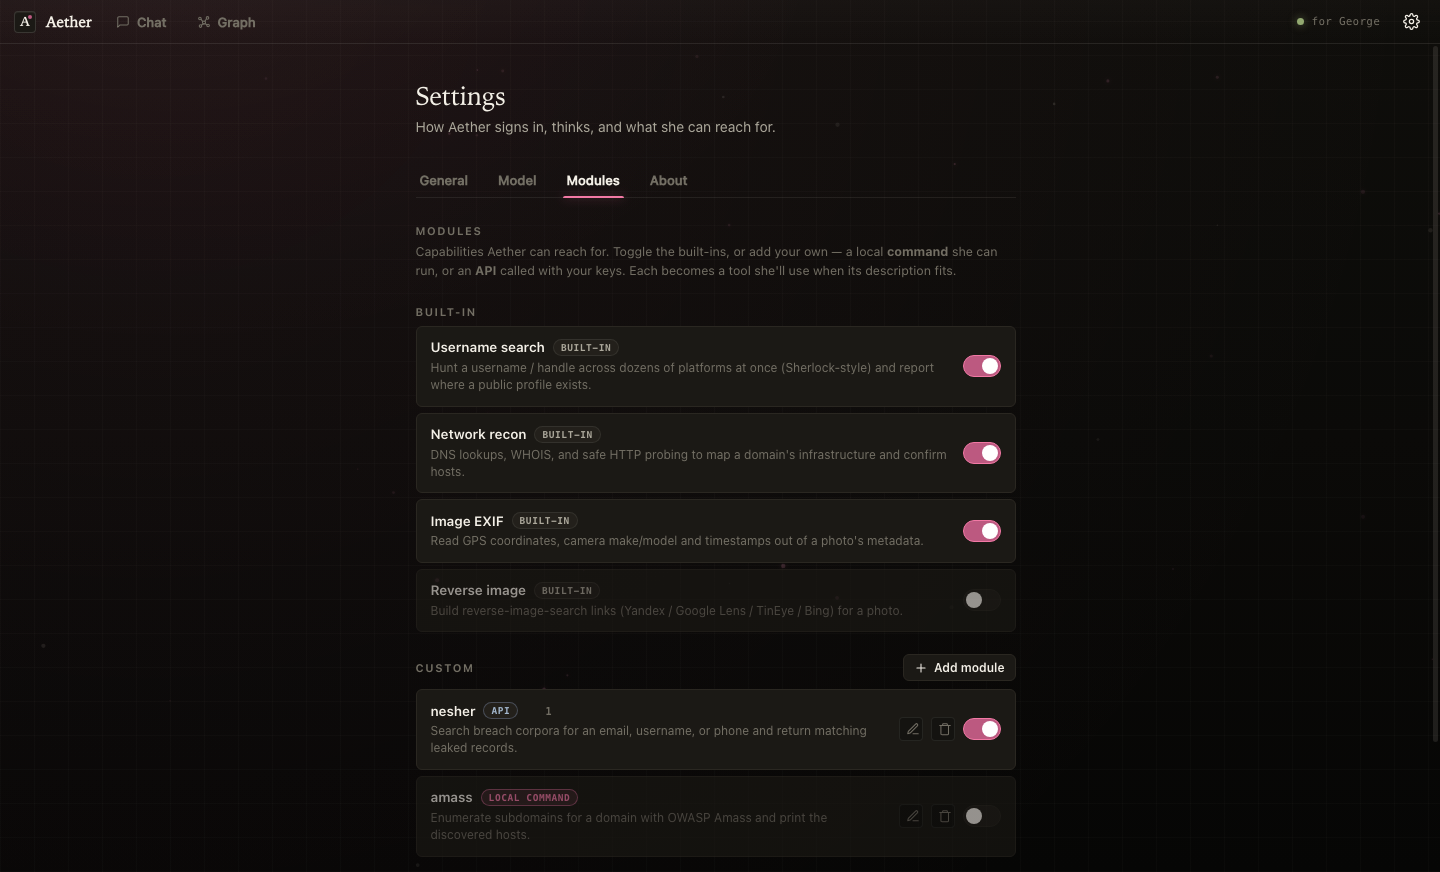
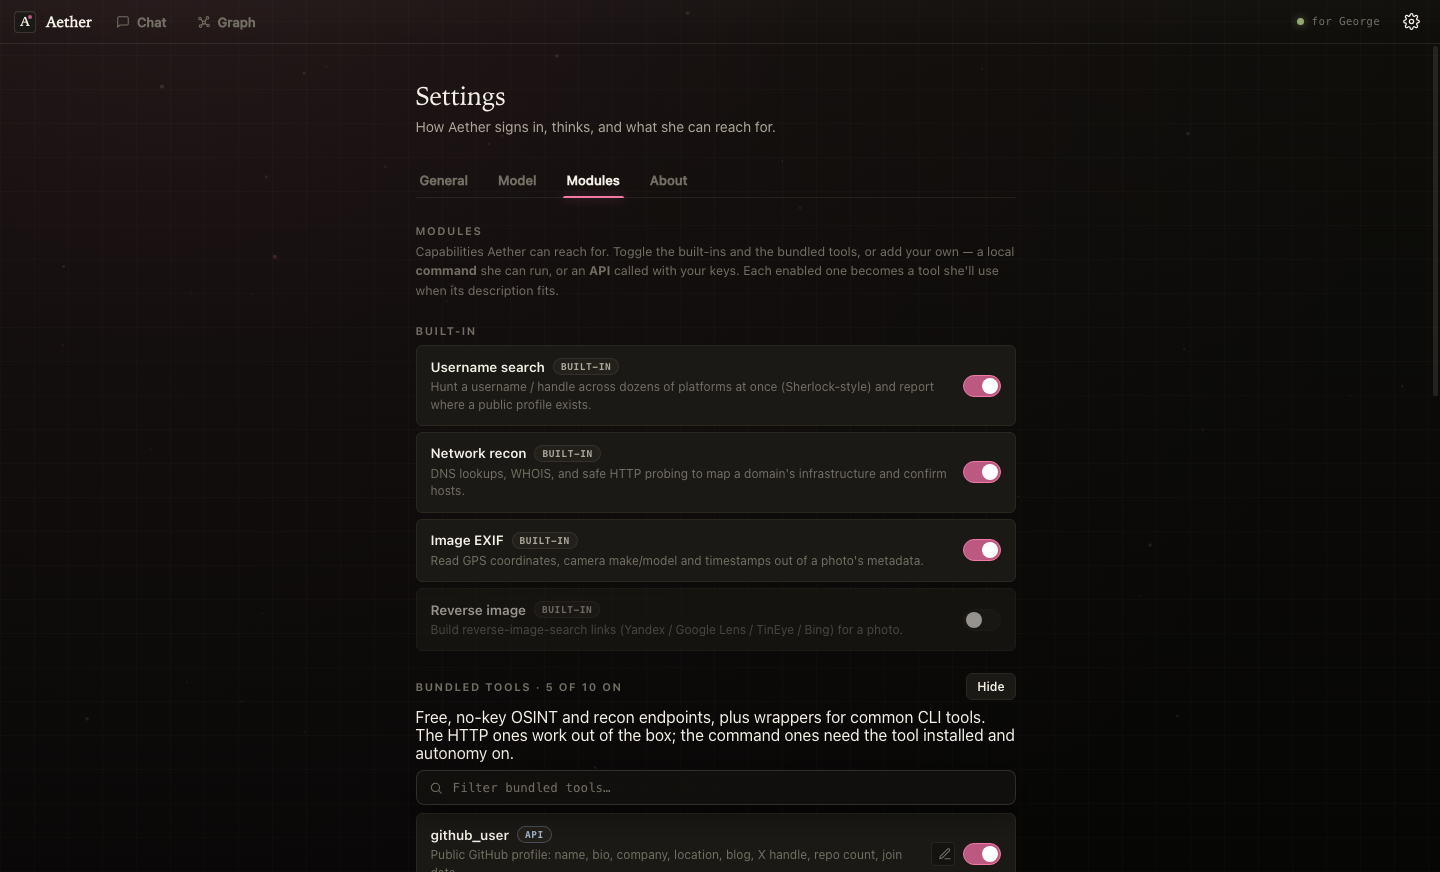
Add a bundled catalog of default modules
Ships ~40 no-key OSINT/recon HTTP endpoints (GitHub, crt.sh, RDAP, Google and
Cloudflare DoH, Shodan InternetDB, ip-api, RIPE, Wayback, urlscan, OTX, Hudson
Rock, npm/PyPI/crates, and more) plus ~24 wrappers for common recon CLIs
(maigret, holehe, subfinder, httpx, tlsx, nuclei, nmap and friends). A
high-signal HTTP core starts enabled; the rest are one toggle away, and the
command wrappers stay off until the binary is installed and autonomy is on.

New "Bundled" group in Settings: filterable, collapsible, editable and
toggleable but not deletable. HTTP endpoints were live-tested through the app's
own fetch path, and modules now send a polite default User-Agent.

diff --git a/src/main/modules.ts b/src/main/modules.ts
@@ -39,7 +39,93 @@ const seedBuiltin = (b: (typeof BUILTINS)[number]): StoredModule => ({
   kind: "builtin", enabled: true, builtin: true, builtinKey: b.key,
 });
 
-function seed(): StoredModule[] { return BUILTINS.map(seedBuiltin); }
+// ── bundled default modules ───────────────────────────────────────────────────
+// A curated catalog that ships with the app. The no-key HTTP ones were live-tested;
+// a high-signal core starts enabled, the rest are available to flip on. Command
+// modules ship disabled — they need the binary installed and autonomy on.
+const H = (id: string, name: string, description: string, url: string, inputLabel: string, on = false, headers?: ModuleHeader[]): StoredModule =>
+  ({ id: "def:" + id, name, description, kind: "http", enabled: on, builtin: false, default: true, method: "GET", url, inputLabel, ...(headers ? { headers } : {}) });
+const C = (id: string, name: string, description: string, command: string, inputLabel: string): StoredModule =>
+  ({ id: "def:" + id, name, description, kind: "command", enabled: false, builtin: false, default: true, command, inputLabel });
+
+const DEFAULT_MODULES: StoredModule[] = [
+  // people / identity (no key)
+  H("github-user", "github_user", "Public GitHub profile: name, bio, company, location, blog, X handle, repo count, join date.", "https://api.github.com/users/{input}", "a GitHub username", true),
+  H("github-repos", "github_repos", "List a GitHub user's public repositories, most-recently-updated first.", "https://api.github.com/users/{input}/repos?per_page=100&sort=updated", "a GitHub username"),
+  H("github-search-user", "github_search_user", "Search public GitHub users by name or handle.", "https://api.github.com/search/users?q={input}", "a name or username"),
+  H("gitlab-user", "gitlab_user", "Look up a public GitLab.com user by username.", "https://gitlab.com/api/v4/users?username={input}", "a GitLab username"),
+  H("keybase", "keybase", "Keybase public identity: linked twitter/github/reddit/domain proofs and PGP keys.", "https://keybase.io/_/api/1.0/user/lookup.json?usernames={input}", "a Keybase username", true),
+  H("hn-user", "hn_user", "Hacker News public user: karma, about text, join date.", "https://hacker-news.firebaseio.com/v0/user/{input}.json", "an HN username"),
+  H("stackoverflow-user", "stackoverflow_user", "Search public Stack Overflow users by display name.", "https://api.stackexchange.com/2.3/users?inname={input}&site=stackoverflow&order=desc&sort=reputation", "a display name"),
+  H("devto-user", "devto_user", "Public dev.to profile by username.", "https://dev.to/api/users/by_username?url={input}", "a dev.to username"),
+  H("wikidata", "wikidata_person", "Search Wikidata for a person or organization. Returns QIDs and descriptions.", "https://www.wikidata.org/w/api.php?action=wbsearchentities&search={input}&language=en&format=json&type=item", "a person or organization name"),
+  H("wikipedia", "wikipedia_search", "Search English Wikipedia for a person, company, or topic.", "https://en.wikipedia.org/w/api.php?action=query&list=search&srsearch={input}&format=json", "a name or topic", true),
+  H("nominatim", "nominatim", "OpenStreetMap geocode of a place, address, or named location (public geo only).", "https://nominatim.openstreetmap.org/search?q={input}&format=json&limit=5", "a place name or address"),
+  H("hudson-email", "hudsonrock_email", "Hudson Rock free OSINT check: is this email seen in infostealer logs.", "https://cavalier.hudsonrock.com/api/json/v2/osint-tools/search-by-email?email={input}", "an email address", true),
+  H("hudson-user", "hudsonrock_username", "Hudson Rock free OSINT check: is this username seen in infostealer logs.", "https://cavalier.hudsonrock.com/api/json/v2/osint-tools/search-by-username?username={input}", "a username"),
+  // domain / dns / ip / certs (no key)
+  H("crtsh", "crtsh", "Certificate Transparency via crt.sh: issued certs and SANs, including historical subdomains.", "https://crt.sh/?q={input}&output=json", "a domain", true),
+  H("anubisdb", "anubisdb", "AnubisDB stored subdomain list for a root domain.", "https://anubisdb.com/subdomains/{input}", "a domain"),
+  H("rdap-domain", "rdap_domain", "RDAP registration data for a domain (the modern, structured WHOIS).", "https://rdap.org/domain/{input}", "a domain", true),
+  H("rdap-ip", "rdap_ip", "RDAP registration data for an IPv4 or IPv6 address.", "https://rdap.org/ip/{input}", "an IP address"),
+  H("doh-a", "doh_a", "Google DNS-over-HTTPS A-record lookup for a hostname.", "https://dns.google/resolve?name={input}&type=A", "a hostname"),
+  H("doh-mx", "doh_mx", "Google DoH MX records: the mail provider behind a domain.", "https://dns.google/resolve?name={input}&type=MX", "a domain", true),
+  H("doh-txt", "doh_txt", "Google DoH TXT records: SPF, DKIM selectors, verification tokens, product hints.", "https://dns.google/resolve?name={input}&type=TXT", "a hostname", true),
+  H("doh-ns", "doh_ns", "Google DoH NS records for a domain.", "https://dns.google/resolve?name={input}&type=NS", "a domain"),
+  H("cloudflare-doh", "cloudflare_doh", "Cloudflare DNS-over-HTTPS A lookup (a second resolver to compare with Google).", "https://cloudflare-dns.com/dns-query?name={input}&type=A", "a hostname", false, [{ name: "Accept", value: "application/dns-json" }]),
+  H("internetdb", "shodan_internetdb", "Shodan InternetDB (no key): open ports, hostnames, CPEs, tags and known CVEs for an IP. Input must be an IP, not a domain.", "https://internetdb.shodan.io/{input}", "an IPv4 address", true),
+  H("ip-api", "ip_api", "ip-api.com geo, ISP, ASN, org and reverse DNS for an IP.", "http://ip-api.com/json/{input}?fields=status,message,country,regionName,city,lat,lon,isp,org,as,asname,reverse,proxy,hosting,query", "an IP address", true),
+  H("ipwhois", "ipwhois", "ipwho.is geo and connection info for an IP.", "https://ipwho.is/{input}", "an IP address"),
+  H("ripe-whois", "ripe_whois", "RIPE Stat whois-style JSON for an IP, prefix, or ASN.", "https://stat.ripe.net/data/whois/data.json?resource={input}", "an IP, prefix, or ASN"),
+  H("ripe-prefix", "ripe_prefix", "RIPE Stat prefix overview and announcing ASNs for an IP or prefix.", "https://stat.ripe.net/data/prefix-overview/data.json?resource={input}", "an IP or prefix"),
+  H("ht-reverse-ip", "ht_reverse_ip", "HackerTarget reverse IP: other hostnames sharing an IP (a shared-hosting pivot). Free daily cap.", "https://api.hackertarget.com/reverseiplookup/?q={input}", "an IP address"),
+  H("ht-hostsearch", "ht_hostsearch", "HackerTarget hostsearch: domain to hostname/IP pairs, a passive subdomain source. Free daily cap.", "https://api.hackertarget.com/hostsearch/?q={input}", "a domain"),
+  H("ht-aslookup", "ht_aslookup", "HackerTarget ASN lookup for an IP.", "https://api.hackertarget.com/aslookup/?q={input}", "an IP address"),
+  // archive / surface / threat (no key)
+  H("wayback", "wayback_available", "Internet Archive: is a URL snapshotted, and the closest snapshot.", "https://archive.org/wayback/available?url={input}", "a URL or domain", true),
+  H("urlscan", "urlscan_search", "urlscan.io public search for past scans of a domain (search only, no submit).", "https://urlscan.io/api/v1/search/?q=domain:{input}", "a domain", true),
+  H("otx-domain", "otx_domain", "AlienVault OTX public indicators for a domain: passive DNS, malware, whois, URLs.", "https://otx.alienvault.com/api/v1/indicators/domain/{input}/general", "a domain", true),
+  H("otx-ip", "otx_ip", "AlienVault OTX public indicators for an IPv4 address.", "https://otx.alienvault.com/api/v1/indicators/IPv4/{input}/general", "an IPv4 address"),
+  // code / package indexes (no key)
+  H("npm", "npm_pkg", "npm registry metadata for a package: maintainers, repo, homepage.", "https://registry.npmjs.org/{input}", "an npm package name"),
+  H("pypi", "pypi_pkg", "PyPI JSON for a package: author, author email, home page, project URLs.", "https://pypi.org/pypi/{input}/json", "a PyPI package name"),
+  H("crates", "crates_pkg", "crates.io metadata and repository for a Rust crate.", "https://crates.io/api/v1/crates/{input}", "a crate name"),
+  H("github-search-repos", "github_search_repos", "Search public GitHub repositories (unauthenticated, low rate limit).", "https://api.github.com/search/repositories?q={input}", "a search query"),
+  // command modules (install the binary; run under autonomy). People footprint:
+  C("maigret", "maigret", "Maigret username enumeration across sites. Returns sites with public accounts and their URLs.", "maigret {input} --timeout 8 --no-progressbar -J simple", "a username"),
+  C("holehe", "holehe", "Holehe: which sites report an email address as registered.", "holehe {input} --no-color --no-clear", "an email address"),
+  C("socialscan", "socialscan", "socialscan email/username availability across platforms.", "socialscan {input}", "an email or username"),
+  C("phoneinfoga", "phoneinfoga_recon", "PhoneInfoga public-source recon for an international number you're authorized to check.", "phoneinfoga scan -n {input}", "an E.164 phone number"),
+  // Website recon / authorized-scan wrappers:
+  C("whatweb", "whatweb", "WhatWeb fingerprint: CMS, frameworks, headers, plugins on an authorized URL.", "whatweb --color=never --no-errors -a 3 {input}", "a URL you are authorized to test"),
+  C("wafw00f", "wafw00f", "Detect the WAF vendor in front of an authorized URL.", "wafw00f {input}", "a URL you are authorized to test"),
+  C("httpx", "httpx", "httpx probe: scheme, status, title, tech, server and length for a host/URL in scope.", "httpx -u {input} -silent -status-code -title -tech-detect -web-server -content-length -follow-redirects", "a host or URL in scope"),
+  C("tlsx", "tlsx", "tlsx certificate and TLS parameter grab for an authorized host.", "tlsx -u {input} -san -cn -so -expired -self-signed -untrusted -silent", "a hostname"),
+  C("sslscan", "sslscan", "sslscan supported ciphers and cert info for an authorized host.", "sslscan --no-colour {input}", "a hostname"),
+  C("subfinder", "subfinder", "subfinder passive subdomain enumeration (works with zero keys, fewer sources).", "subfinder -d {input} -silent", "a domain"),
+  C("amass-passive", "amass_passive", "OWASP Amass passive enumeration only (no active brute force).", "amass enum -passive -d {input} -nocolor", "a domain"),
+  C("assetfinder", "assetfinder", "assetfinder related domains and subdomains from public sources.", "assetfinder --subs-only {input}", "a domain"),
+  C("waybackurls", "waybackurls", "Pull archived URLs for a domain from the Wayback Machine.", "waybackurls {input}", "a domain"),
+  C("gau", "gau", "gau: archived URLs from Wayback, Common Crawl, OTX and urlscan for a domain.", "gau --subs {input}", "a domain"),
+  C("katana", "katana", "katana crawl of an in-scope URL (depth 2), collecting links and JS.", "katana -u {input} -d 2 -silent -jc", "an in-scope URL"),
+  C("nuclei", "nuclei_exposures", "nuclei exposure/misconfig/tech/ssl/dns templates against an authorized target. No exploit templates.", "nuclei -u {input} -tags exposure,misconfig,tech,ssl,dns -silent", "an in-scope URL or host"),
+  C("nikto", "nikto", "Nikto web-server misconfiguration scan of an authorized URL.", "nikto -h {input} -ask no -Display P", "an in-scope URL"),
+  C("wpscan", "wpscan_enum", "WPScan non-destructive enumeration of an authorized WordPress site (no password attack).", "wpscan --url {input} --enumerate vp,vt,u --no-banner --format json", "an in-scope WordPress URL"),
+  C("dnsx", "dnsx", "dnsx A/AAAA/CNAME/MX/NS/TXT resolution for a hostname.", "dnsx -a -aaaa -cname -mx -ns -txt -resp -silent -n {input}", "a hostname"),
+  C("cdncheck", "cdncheck", "cdncheck: whether a host or IP sits on a known CDN/WAF range.", "cdncheck -i {input} -resp -silent", "a host or IP"),
+  C("naabu", "naabu", "naabu connect-scan of the top 1000 ports on an in-scope host.", "naabu -host {input} -top-ports 1000 -silent", "an in-scope host or IP"),
+  C("nmap", "nmap_safe", "nmap version + default-safe scripts against a host you own or are permitted to scan.", "nmap -sV -sC -T4 --top-ports 1000 {input}", "an in-scope host or IP"),
+];
+
+function seed(): StoredModule[] { return [...BUILTINS.map(seedBuiltin), ...DEFAULT_MODULES]; }
+
+/** Add any bundled default missing from the stored set (so existing installs
+ *  pick up new defaults), without touching the user's enabled/edited copies. */
+function reconcileDefaults(list: StoredModule[]): StoredModule[] {
+  const out = [...list];
+  for (const d of DEFAULT_MODULES) if (!out.some((m) => m.id === d.id)) out.push(d);
+  return out;
+}
 
 // ── crypto ────────────────────────────────────────────────────────────────────
 function encrypt(value: string): string {
@@ -68,7 +154,7 @@ function load(): StoredModule[] {
       if (Array.isArray(raw)) base = reconcileBuiltins(raw);
     }
   } catch (e) { console.error("[aether] modules load failed:", e); }
-  return reconcilePrivate(base);
+  return reconcilePrivate(reconcileDefaults(base));
 }
 
 /** Seed custom modules declared in the gitignored `private/modules.json` (e.g. a
@@ -200,7 +286,8 @@ export const modules = {
 
   remove(id: string): ModuleConfig[] {
     const m = mods.find((x) => x.id === id);
-    if (m && !m.builtin && m.kind !== "connector") mods = mods.filter((x) => x.id !== id);
+    // Bundled defaults, built-ins and connectors can't be deleted (only disabled).
+    if (m && !m.builtin && !m.default && m.kind !== "connector") mods = mods.filter((x) => x.id !== id);
     persist();
     return this.list();
   },

diff --git a/src/renderer/dev/mock.ts b/src/renderer/dev/mock.ts
@@ -190,6 +190,17 @@ let mods: ModuleConfig[] = [
   { id: "builtin:recon", name: "Network recon", kind: "builtin", enabled: true, builtin: true, builtinKey: "recon", description: "DNS lookups, WHOIS, and safe HTTP probing to map a domain's infrastructure and confirm hosts." },
   { id: "builtin:exif", name: "Image EXIF", kind: "builtin", enabled: true, builtin: true, builtinKey: "exif", description: "Read GPS coordinates, camera make/model and timestamps out of a photo's metadata." },
   { id: "builtin:reverse_image", name: "Reverse image", kind: "builtin", enabled: false, builtin: true, builtinKey: "reverse_image", description: "Build reverse-image-search links (Yandex / Google Lens / TinEye / Bing) for a photo." },
+  // bundled defaults (a sample of the real catalog)
+  { id: "def:github-user", name: "github_user", kind: "http", enabled: true, builtin: false, default: true, method: "GET", description: "Public GitHub profile: name, bio, company, location, blog, X handle, repo count, join date.", inputLabel: "a GitHub username", url: "https://api.github.com/users/{input}" },
+  { id: "def:crtsh", name: "crtsh", kind: "http", enabled: true, builtin: false, default: true, method: "GET", description: "Certificate Transparency via crt.sh: issued certs and SANs, including historical subdomains.", inputLabel: "a domain", url: "https://crt.sh/?q={input}&output=json" },
+  { id: "def:internetdb", name: "shodan_internetdb", kind: "http", enabled: true, builtin: false, default: true, method: "GET", description: "Shodan InternetDB (no key): open ports, hostnames, CPEs, tags and known CVEs for an IP.", inputLabel: "an IPv4 address", url: "https://internetdb.shodan.io/{input}" },
+  { id: "def:hudson-email", name: "hudsonrock_email", kind: "http", enabled: true, builtin: false, default: true, method: "GET", description: "Hudson Rock free OSINT check: is this email seen in infostealer logs.", inputLabel: "an email address", url: "https://cavalier.hudsonrock.com/api/json/v2/osint-tools/search-by-email?email={input}" },
+  { id: "def:rdap-domain", name: "rdap_domain", kind: "http", enabled: true, builtin: false, default: true, method: "GET", description: "RDAP registration data for a domain (the modern, structured WHOIS).", inputLabel: "a domain", url: "https://rdap.org/domain/{input}" },
+  { id: "def:wayback", name: "wayback_available", kind: "http", enabled: false, builtin: false, default: true, method: "GET", description: "Internet Archive: is a URL snapshotted, and the closest snapshot.", inputLabel: "a URL or domain", url: "https://archive.org/wayback/available?url={input}" },
+  { id: "def:keybase", name: "keybase", kind: "http", enabled: false, builtin: false, default: true, method: "GET", description: "Keybase public identity: linked twitter/github/reddit/domain proofs and PGP keys.", inputLabel: "a Keybase username", url: "https://keybase.io/_/api/1.0/user/lookup.json?usernames={input}" },
+  { id: "def:maigret", name: "maigret", kind: "command", enabled: false, builtin: false, default: true, description: "Maigret username enumeration across sites. Returns sites with public accounts and URLs.", inputLabel: "a username", command: "maigret {input} --timeout 8 --no-progressbar -J simple" },
+  { id: "def:subfinder", name: "subfinder", kind: "command", enabled: false, builtin: false, default: true, description: "subfinder passive subdomain enumeration (works with zero keys).", inputLabel: "a domain", command: "subfinder -d {input} -silent" },
+  { id: "def:nuclei", name: "nuclei_exposures", kind: "command", enabled: false, builtin: false, default: true, description: "nuclei exposure/misconfig/tech/ssl/dns templates against an authorized target. No exploit templates.", inputLabel: "an in-scope URL or host", command: "nuclei -u {input} -tags exposure,misconfig,tech,ssl,dns -silent" },
   { id: "m-nesher", name: "nesher", kind: "http", enabled: true, builtin: false, method: "GET", description: "Search breach corpora for an email, username, or phone and return matching leaked records.", inputLabel: "an email, username, phone, or domain", url: "https://api.nesher.example/v1/search?q={input}", headers: [{ name: "Authorization", value: "Bearer {{NESHER_KEY}}" }], body: "", secrets: [{ name: "NESHER_KEY", set: true }] },
   { id: "m-amass", name: "amass", kind: "command", enabled: false, builtin: false, description: "Enumerate subdomains for a domain with OWASP Amass and print the discovered hosts.", inputLabel: "a domain", command: "amass enum -d {input} -silent", secrets: [] },
   { id: "connector:facebook_id", name: "facebook_id", kind: "connector", enabled: true, builtin: true, description: "Loaded from a private code connector." },

diff --git a/src/renderer/components/Settings.tsx b/src/renderer/components/Settings.tsx
@@ -1,7 +1,7 @@
 import React, { useEffect, useRef, useState } from "react";
 import { useStore } from "../state/store";
 import type { ModuleConfig, ModuleSecret, ModuleHeader } from "../../shared/types";
-import { IPlus, ITrash, IEdit, IClose } from "./icons";
+import { IPlus, ITrash, IEdit, IClose, ISearch } from "./icons";
 
 const MODELS = [
   { id: "claude-opus-5", name: "Opus 5 — most capable" },
@@ -129,10 +129,16 @@ function ModulesPane() {
   const toggleModule = useStore((s) => s.toggleModule);
   const deleteModule = useStore((s) => s.deleteModule);
   const [editing, setEditing] = useState<ModuleConfig | null>(null);
+  const [showBundled, setShowBundled] = useState(false);
+  const [bundledFilter, setBundledFilter] = useState("");
 
   const builtins = modules.filter((m) => m.kind === "builtin");
-  const customs = modules.filter((m) => m.kind === "command" || m.kind === "http");
+  const bundled = modules.filter((m) => (m.kind === "command" || m.kind === "http") && m.default);
+  const customs = modules.filter((m) => (m.kind === "command" || m.kind === "http") && !m.default);
   const connectors = modules.filter((m) => m.kind === "connector");
+  const bundledOn = bundled.filter((m) => m.enabled).length;
+  const q = bundledFilter.trim().toLowerCase();
+  const bundledShown = q ? bundled.filter((m) => m.name.toLowerCase().includes(q) || m.description.toLowerCase().includes(q)) : bundled;
 
   const Row = (m: ModuleConfig) => (
     <div className={`module-row${m.enabled ? "" : " off"}`} key={m.id}>
@@ -148,7 +154,7 @@ function ModulesPane() {
         {(m.kind === "command" || m.kind === "http") && (
           <>
             <button className="mini-btn" title="Edit" onClick={() => setEditing(m)}><IEdit /></button>
-            <button className="mini-btn danger" title="Delete" onClick={() => void deleteModule(m.id)}><ITrash /></button>
+            {!m.default && <button className="mini-btn danger" title="Delete" onClick={() => void deleteModule(m.id)}><ITrash /></button>}
           </>
         )}
         {m.kind === "connector"
@@ -162,11 +168,28 @@ function ModulesPane() {
     <>
       <div className="field">
         <label>Modules</label>
-        <div className="desc">Capabilities Aether can reach for. Toggle the built-ins, or add your own — a local <b>command</b> she can run, or an <b>API</b> called with your keys. Each becomes a tool she'll use when its description fits.</div>
+        <div className="desc">Capabilities Aether can reach for. Toggle the built-ins and the bundled tools, or add your own — a local <b>command</b> she can run, or an <b>API</b> called with your keys. Each enabled one becomes a tool she'll use when its description fits.</div>
       </div>
 
       <div className="module-group-head"><span>Built-in</span></div>
       <div className="module-list">{builtins.map(Row)}</div>
+
+      <div className="module-group-head">
+        <span>Bundled tools · {bundledOn} of {bundled.length} on</span>
+        <button className="new-btn" onClick={() => setShowBundled((v) => !v)}>{showBundled ? "Hide" : "Show all"}</button>
+      </div>
+      <div className="desc" style={{ margin: "0 0 8px" }}>
+        Free, no-key OSINT and recon endpoints, plus wrappers for common CLI tools. The HTTP ones work out of the box; the command ones need the tool installed and autonomy on.
+      </div>
+      {showBundled && (
+        <>
+          <div className="hud-search glass" style={{ margin: "0 0 8px", maxWidth: "none" }}>
+            <ISearch size={14} />
+            <input placeholder="Filter bundled tools…" value={bundledFilter} onChange={(e) => setBundledFilter(e.target.value)} />
+          </div>
+          <div className="module-list">{bundledShown.map(Row)}</div>
+        </>
+      )}
 
       <div className="module-group-head">
         <span>Custom</span>

diff --git a/src/main/tools/customModules.ts b/src/main/tools/customModules.ts
@@ -60,6 +60,11 @@ function httpTool(m: LiveModule & { toolName: string }, ctx: ToolContext): SdkTo
       const url = fillSecrets((m.url || "").replaceAll("{input}", encodeURIComponent(arg)), m.secretValues);
       const headers: Record<string, string> = {};
       for (const h of m.headers ?? []) if (h.name.trim()) headers[h.name.trim()] = fillSecrets(h.value ?? "", m.secretValues);
+      // Many public APIs reject a missing/blank UA (or throttle it); set a polite
+      // default when the module didn't specify one.
+      if (!Object.keys(headers).some((k) => k.toLowerCase() === "user-agent")) {
+        headers["User-Agent"] = "Aether-OSINT/1.0 (+https://github.com/fknMega/Aether)";
+      }
       const method = m.method === "POST" ? "POST" : "GET";
       const body = method === "POST" && m.body ? fillSecrets(m.body.replaceAll("{input}", arg), m.secretValues) : undefined;
       try {

diff --git a/src/shared/types.ts b/src/shared/types.ts
@@ -155,6 +155,8 @@ export interface ModuleConfig {
   enabled: boolean;
   /** Built-in group or code connector: core fields are locked in the UI. */
   builtin: boolean;
+  /** Shipped as a bundled default (editable + toggleable, but not deletable). */
+  default?: boolean;
   /** Which native tool group a built-in maps to. */
   builtinKey?: "username" | "recon" | "exif" | "reverse_image";
   /** What Aether should pass as the free-form `input` argument. */
